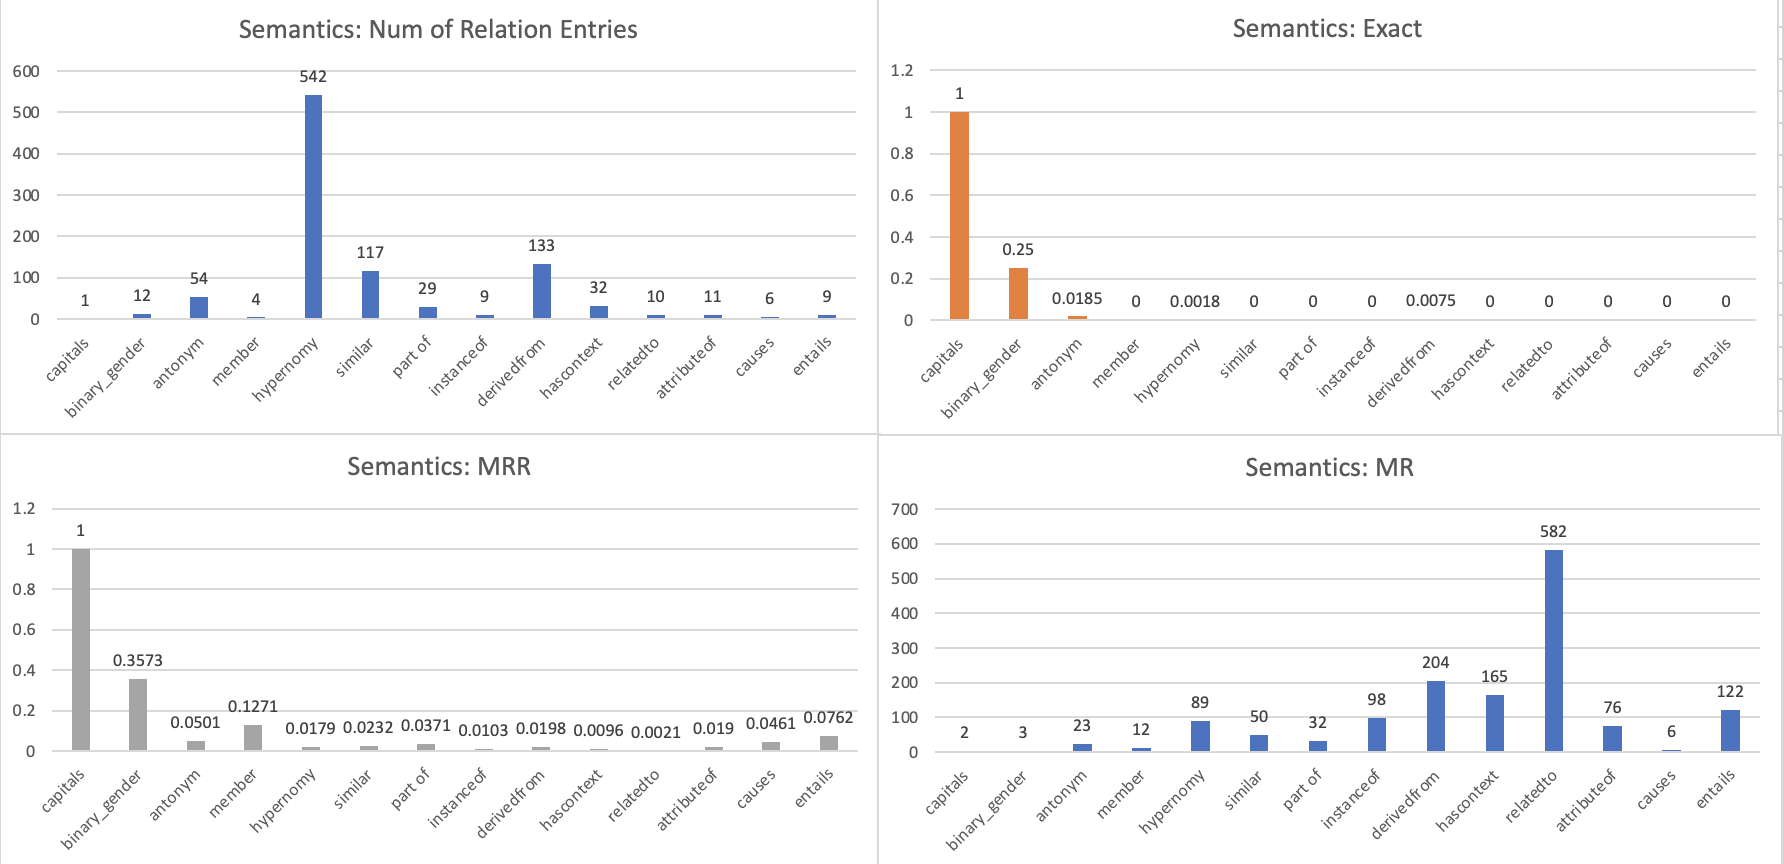
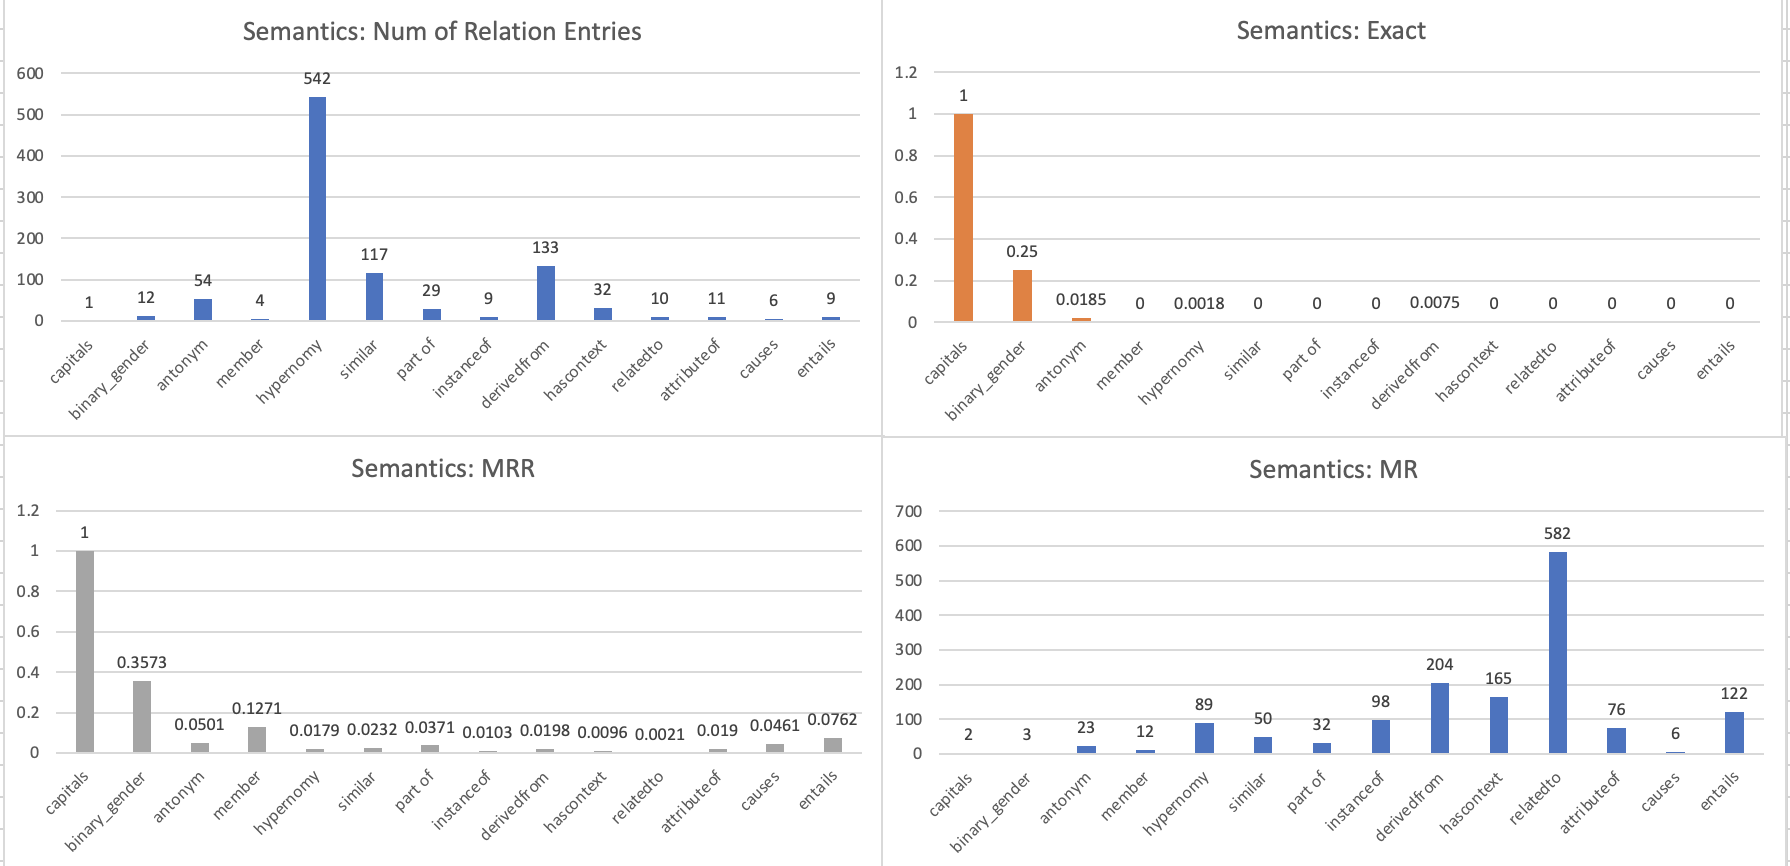
update report

diff --git a/hw2/REPORT.md b/hw2/REPORT.md
@@ -27,7 +27,7 @@ Table of Content
 
 ### Encoding
 - Word-level tokenizer with 3000 words in dictionary (including 4 other special tokens \<pad\>, \<start\>, \<end\>, and \<unk\>)
-- Input: context window length of 4 is used. 2 words before a token is parsed as the input of that token
+- Input: context window lengths of 2 and 4 are used
 - Output: target token
 
 ### Hyperparameters
@@ -35,7 +35,7 @@ Table of Content
 |:---------:|:-----:|:-----------:|
 | n_vocab | 3000 | number of vocabulary in the dictionary
 | n_embedding | 100 | dimension of embedding layer (chosen arbitrarily)
-| context_window_len | 2/4 | total number of tokens used as the context of the target token
+| context_window_len | 2/4 | total number of tokens used as the context of the target token = 2 * context_window_len
 
 ### CBOW Model
 - Embedding layer with dimension of 100
@@ -65,13 +65,14 @@ For accuracy, we select the token with the highest probability and then check if
 - The evaluation util function first uses <code>gensim.models.KeyedVectors</code> to store and calculate C + B - A. Then, top 1000 words are sampled from the space based on the result.
 - 3 values are calculated:
   - Exact: top-1 choice matches with the actual word
-  - MRR: if top-1 choice does not match the actual word, then the score is calculated based on the predicted word's ranking (1/word's ranking)
+  - MRR: the score is calculated based on the word's ranking (1/word's ranking) among all top-1000 sampled words.
   - MR: inverse of MRR
 
 
 ### Assumptions/Simplifications (what might go "wrong", over/under-estimate model performance)
 - The first potential issue that I noticed is that the number of entries for each relation is not well-balanced. For instance, for semantic tasks, the "hypernomy" relation has 542 entries, whereas "capitals" has only 1 entry. Insufficient number of entries for certain relation/task may cause the metric to both overestimate/underestimate model's performance (the model made a correct/wrong prediction but the result is not representative)).
 - Given that evaluation is done based on the result of C + B - A and actual word D, the metric assumes that the word embedding contains vector for the word D (i.e. D exists in our training corpus). However, if we train our model on a smaller dataset / has a smaller vocab size (smaller than 3000 in this case), then we cannot make a correct prediction.
+- The metric doesn't take special tokens into consideration. Given that the evaluation metric doesn't ignore special tokens like <pad> while our model has learned how special tokens are related with other words, the metric may underestimate our model's ability of predicting other tokens, because it doesn't exclude special tokens when sampling top-1000 words while there's no special tokens in the downstream evaluation data entries.
 
 ## Performance
 ### CBOW-4-word-context: in vitro
